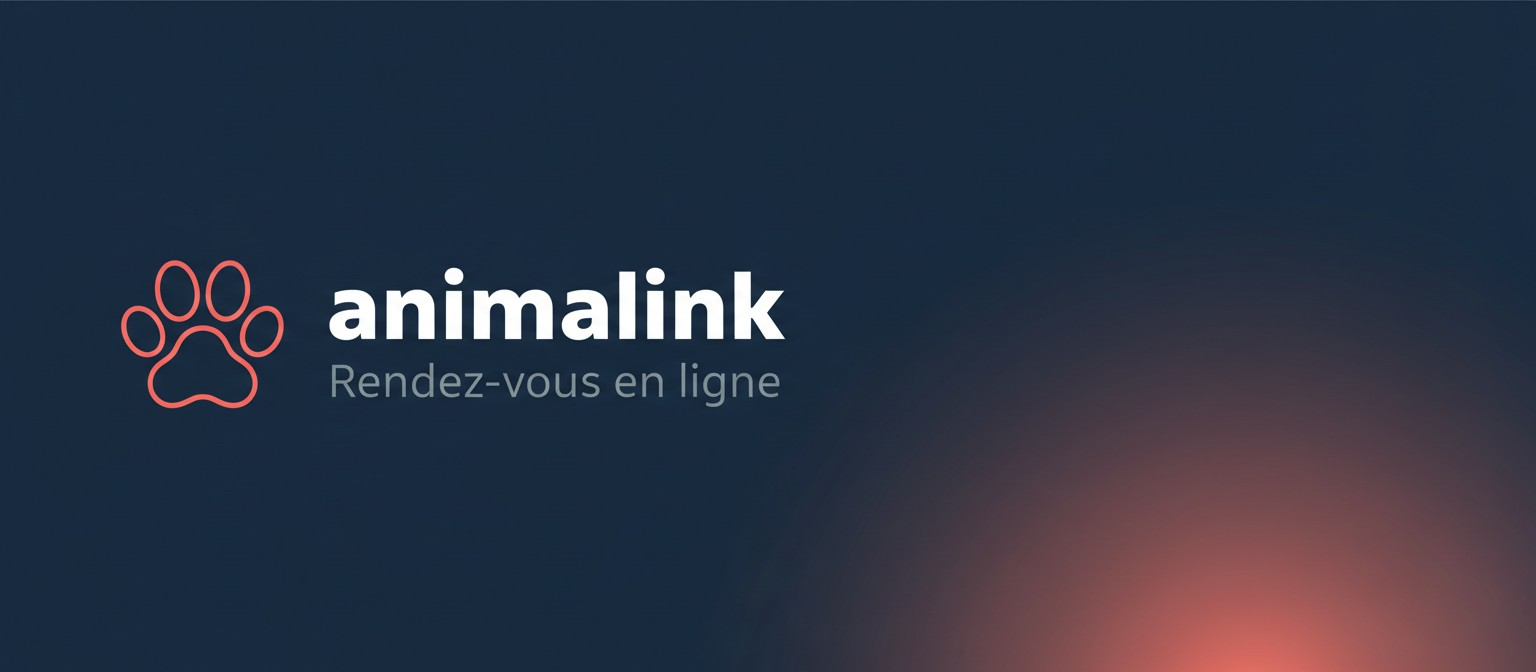
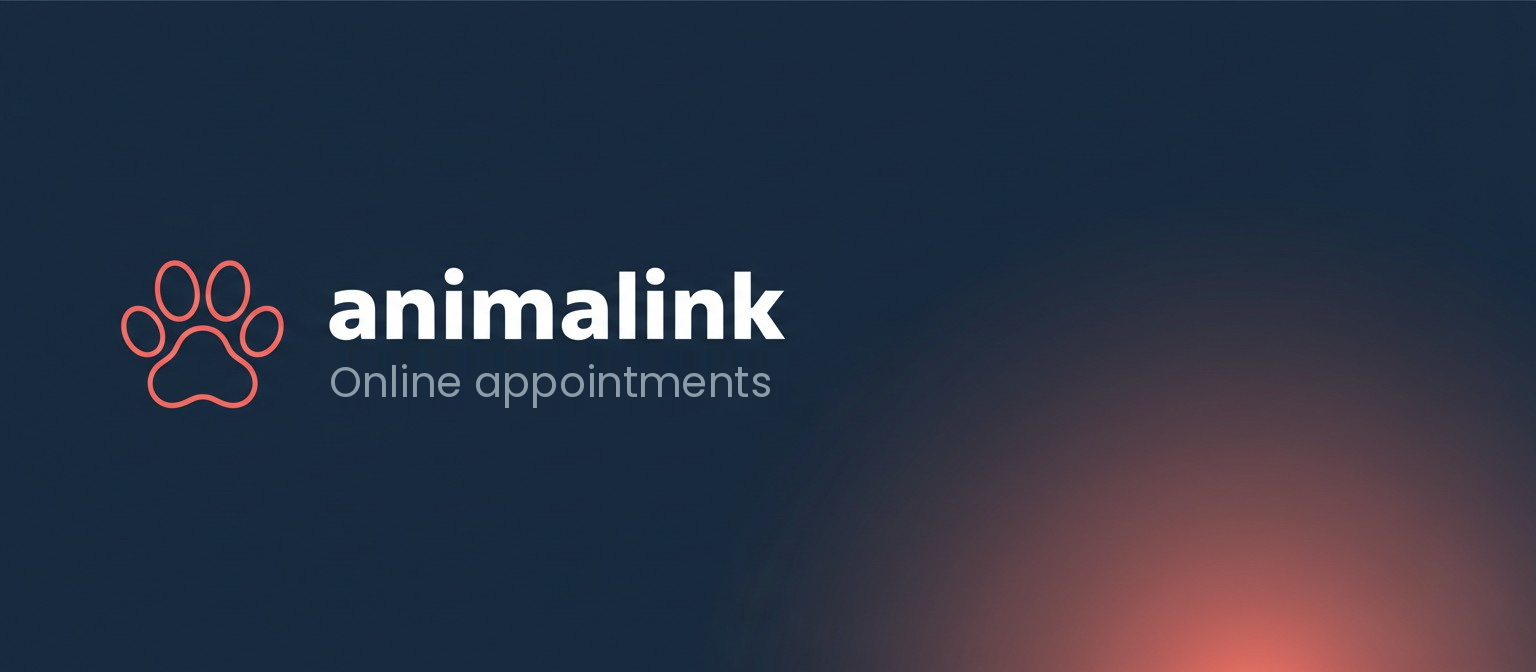
Traduit les sous-titres en anglais et rétablit la DA Opoil
Les 18 bannières qui portaient un sous-titre l'avaient en français : le
texte est réécrit en anglais, dans la même Poppins, à la même taille, au
même endroit — le reste de l'image est intact.

Opoil avait reçu un glyphe et une couleur inventés alors que le projet a
déjà son logo. L'icône et la bannière reprennent la marque officielle
(pwa/public/logo/opoil-mark.svg) et sa couleur #38869c, halo compris.

Changed region(s): [[0.2188, 0.5312, 0.5312, 0.5938]]

diff --git a/README.md b/README.md
@@ -9,15 +9,16 @@ Un seul système visuel, une couleur par projet.
 
 - **Fond** : `#0f172a` (slate-900, repris du favicon du portfolio)
 - **Glyphe** : icône de ligne façon Lucide, traits fins, extrémités arrondies, sans remplissage
+- **Logo existant** : un projet qui a déjà le sien le garde, avec sa couleur de marque — c'est le cas d'Opoil
 - **Icône** : 1024 × 1024, carré à coins arrondis, marge généreuse
-- **Bannière** : 1536 × 672 (21:9), glyphe à gauche, nom du projet en blanc, sous-titre en gris ardoise, halo de la couleur du projet en bas à droite
+- **Bannière** : 1536 × 672 (21:9), glyphe à gauche, nom du projet en blanc, sous-titre **en anglais** en gris ardoise, halo de la couleur du projet en bas à droite
 - **Génération** : `google/gemini-2.5-flash-image` via OpenRouter
 
 ## Projets
 
 - `animalink` — corail `#f87171`
 - `animalink-lead` — violet clair `#c084fc`
-- `opoil` — turquoise `#5eead4`
+- `opoil` — bleu pétrole `#38869c`, logo maison repris de [SalvadorCardona/opoil](https://github.com/SalvadorCardona/opoil) : `pwa/public/logo/opoil-mark.svg`
 - `trader-ia` — vert `#22c55e`
 - `SalvadorCardona` — sky `#38bdf8`
 - `salvadorcardona.github.io` — sky `#38bdf8`
